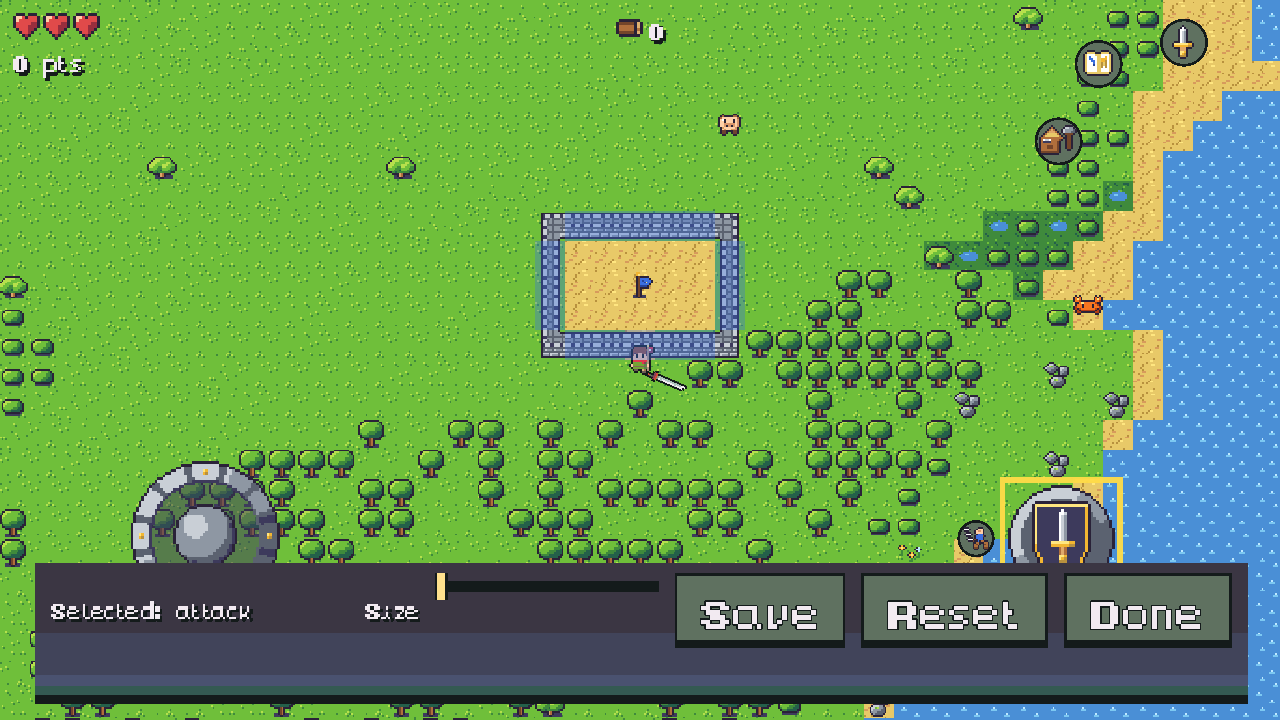
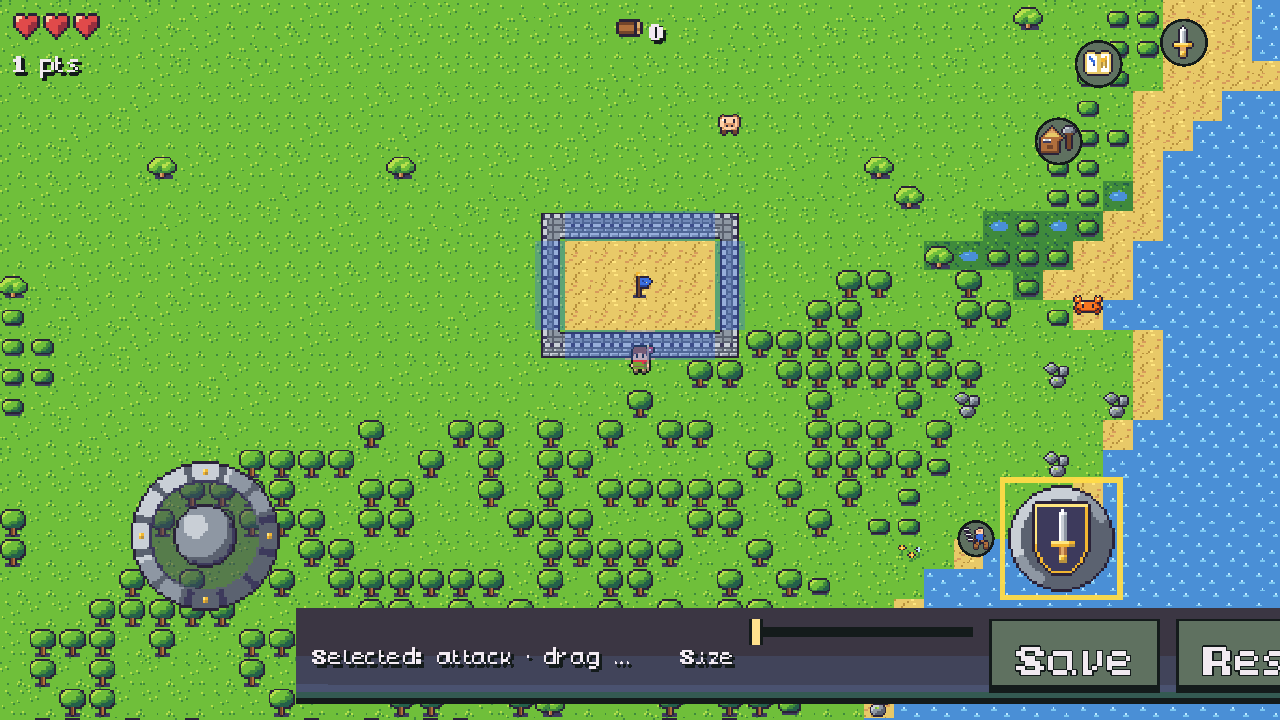
Fix HUD customize edit guards, bar overlap, and evidence
Suppress normal HUD actions while Customize HUD is open, dismiss open map
UI on edit entry, and place the edit bar using full visual control rects
including the joystick ring. Drop the empty hint row; add map-block test and
drive assertions; refresh screenshots.

Changed region(s): [[0.0, 0.7639, 1.0, 0.9778], [0.0, 0.0611, 0.0625, 0.1222], [0.5, 0.5194, 0.5312, 0.55]]

diff --git a/.cursor/skills/verify-flagoria/features/hud-customize.md b/.cursor/skills/verify-flagoria/features/hud-customize.md
@@ -10,6 +10,7 @@ The in-game menu has a Customize HUD entry. It opens an edit mode over the live 
 - `hud-customize-save` Save and load round-trip in user settings (`-- test_hud_layout_round_trip` in `tests/ui/test_hud_layout.gd`).
 - `hud-customize-clamp` Off-screen positions clamp; overlaps are rejected (`-- test_hud_layout_clamp_overlap`).
 - `hud-customize-reset` Reset clears the saved file and brings back HudToolRow defaults (`-- test_hud_layout_reset`).
+- `hud-customize-edit-guard` In edit mode HUD buttons do not open map, buildings, mode, attack, run, or move the stick (`-- test_hud_layout_edit_blocks_map` and the drive tap on Map).
 
 ## How to get to it (user POV)
 
@@ -17,11 +18,11 @@ The in-game menu has a Customize HUD entry. It opens an edit mode over the live 
 
 ## Driving it with verify-flagoria helpers
 
-Preconditions: `doctor.sh` exits `0`. Time cost: the three `tests/ui/test_hud_layout.gd` cases are about 1.2 s in `tools/verify.sh`. The live drive is about 30 s under xvfb.
+Preconditions: `doctor.sh` exits `0`. Time cost: four `tests/ui/test_hud_layout.gd` cases are about 1.5 s in `tools/verify.sh`. The live drive is about 30 s under xvfb.
 
-- **Run.** `./tools/verify.sh`, or `godot --headless --path . --script res://tests/run_tests.gd -- --only=hud_layout_round_trip,hud_layout_clamp_overlap,hud_layout_reset`.
-- **Proof.** Headers `-- test_hud_layout_round_trip`, `-- test_hud_layout_clamp_overlap`, and `-- test_hud_layout_reset` with no `FAIL` after them.
-- **Drive (live).** `bin/launch.sh drives/hud_customize.gd --seed 49 --display`. Snapshots: `default-layout`, `edit-mode`, `moved-control` (attack and Map moved; edit bar clear of controls), `after-save-restart`, `reset-layout`.
+- **Run.** `./tools/verify.sh`, or `godot --headless --path . --script res://tests/run_tests.gd -- --only=hud_layout_round_trip,hud_layout_clamp_overlap,hud_layout_reset,hud_layout_edit_blocks_map`.
+- **Proof.** Headers for the four `test_hud_layout_*` cases with no `FAIL` after them.
+- **Drive (live).** `bin/launch.sh drives/hud_customize.gd --seed 49 --display`. Snapshots: `default-layout`, `edit-mode`, `moved-control` (attack and Map moved; edit bar clear of every control visual rect), `no-overlap`, `after-save-restart`, `reset-layout`.
 
 ## Gotchas
 

diff --git a/docs/architecture.md b/docs/architecture.md
@@ -120,6 +120,7 @@ Where each part of the game lives today, how data moves between the parts, and w
 | `Scripts/ingame_menu.gd` | In-game menu, Save, Customize HUD | stays |
 | `Scripts/hud_layout.gd` | Per-device touch HUD positions in user settings | stays (#492) |
 | `Scripts/hud_layout_edit.gd` | Customize HUD edit overlay | stays (#492) |
+| `Scripts/hud_layout_visual.gd` | HUD control visual rects for edit overlap | stays (#492) |
 | `Scripts/quit_prompt.gd` | Quit prompt | stays |
 | `Scripts/game_settings.gd` | Autoload: mob spawn rate | stays (autoload) |
 | `Scripts/audio_settings.gd` | Autoload: bus volumes | stays (autoload) |
